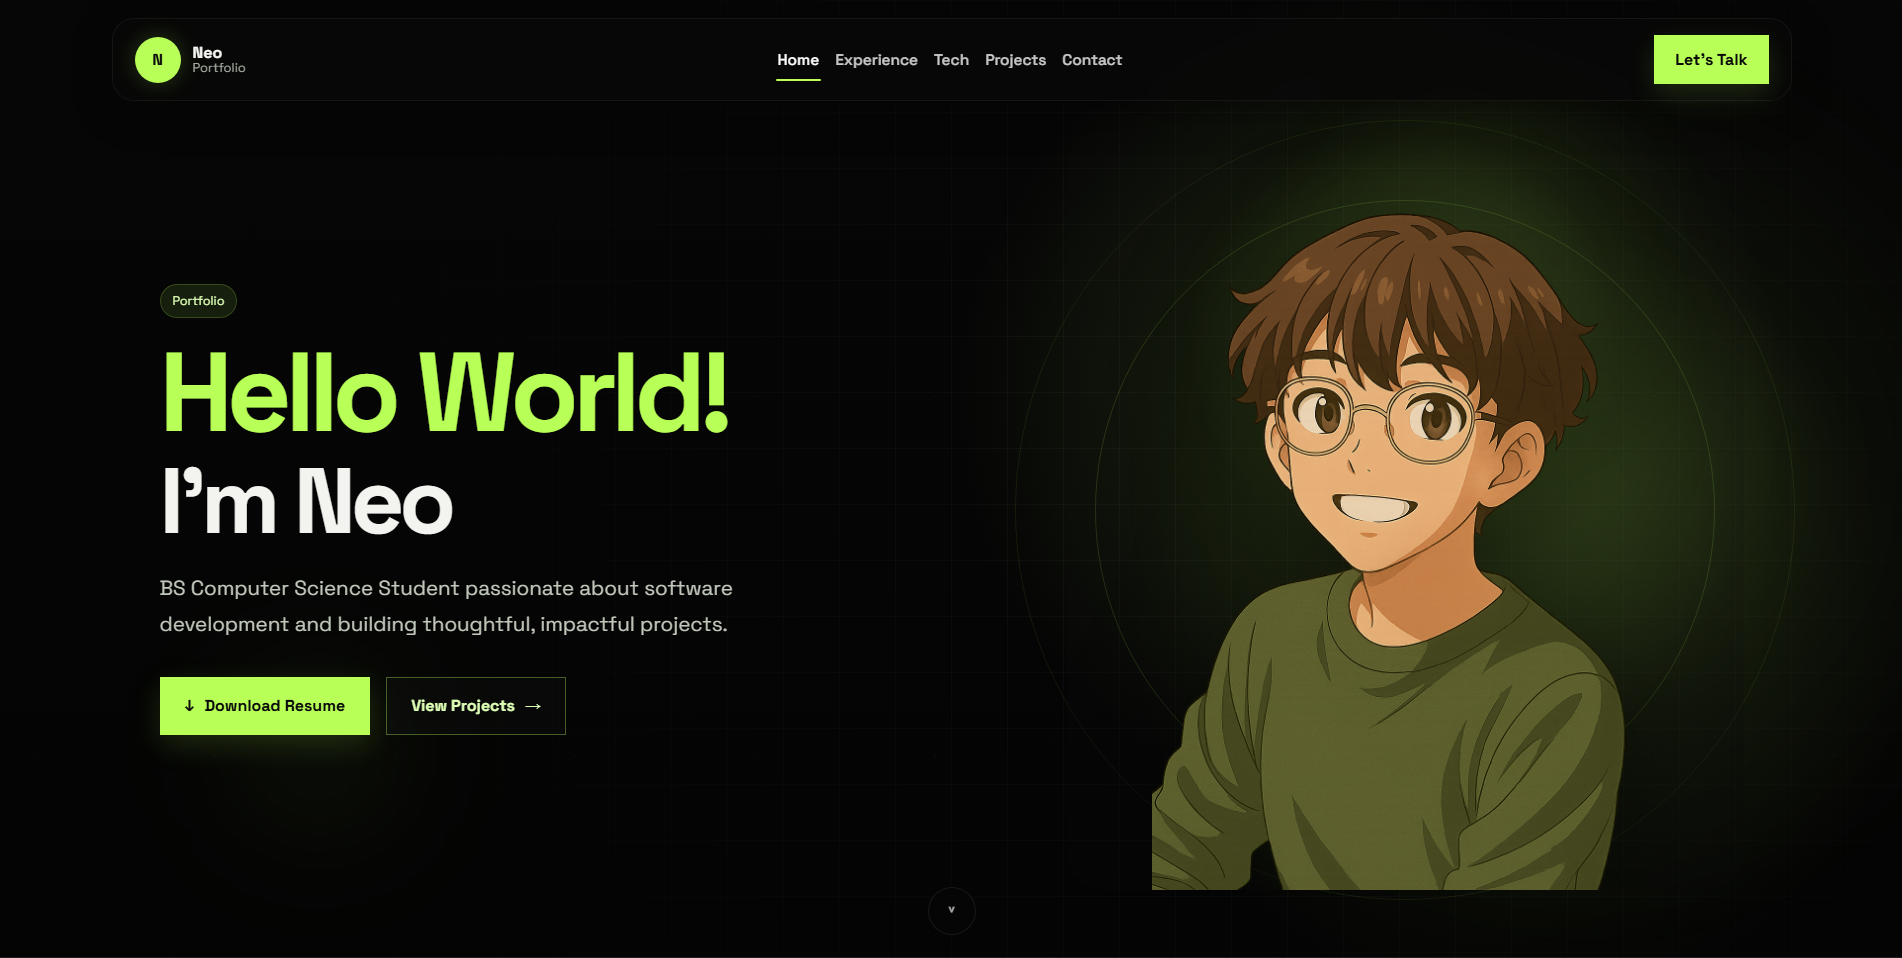
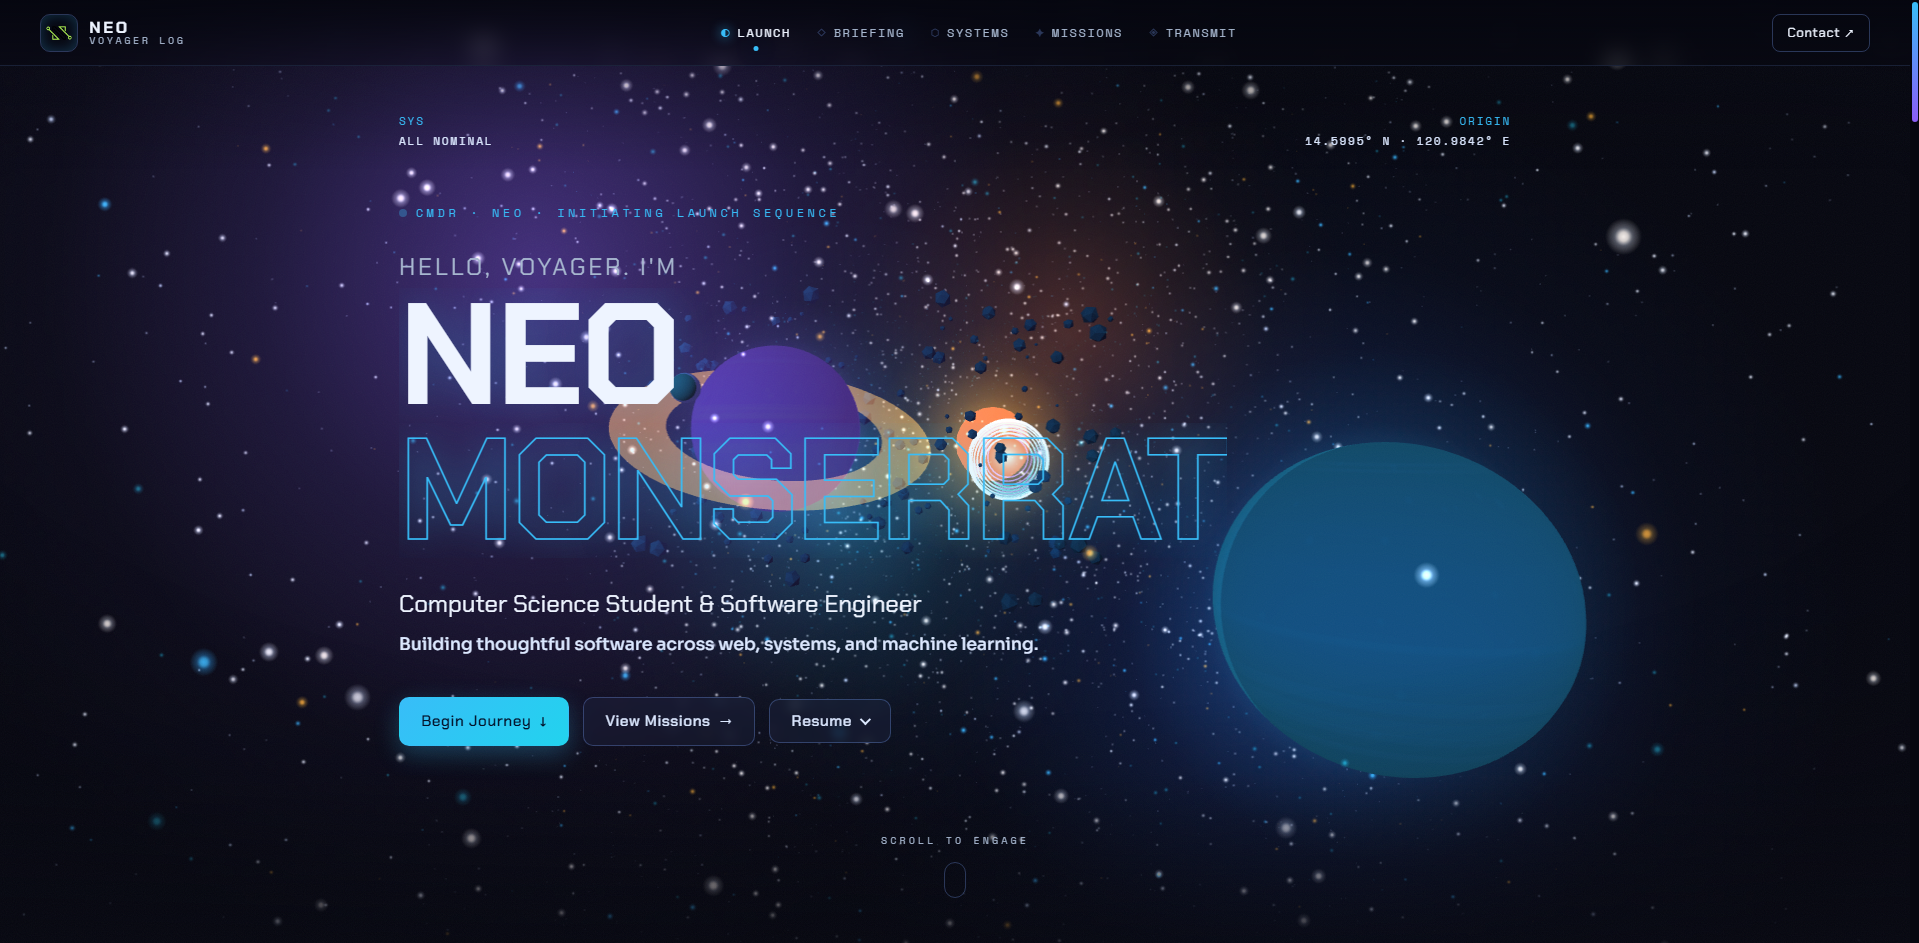
Update

diff --git a/pages/projects.html b/pages/projects.html
@@ -73,15 +73,16 @@
             <div class="project">
               <img class="project-preview" src="../assets/projects/Personal-Portfolio%20Preview.png" alt="Portfolio website preview" loading="lazy" />
               <h3>Portfolio Website</h3>
-              <p class="project-meta">React · HTML · CSS · JavaScript</p>
-              <p>Minimal portfolio website used to showcase my background, projects, and contact information.</p>
+              <p class="project-meta">React · Three.js · GSAP · Vite</p>
+              <p>A cinematic deep-space portfolio — "Voyager Log" — featuring 3D WebGL visuals and animated sequences to showcase missions, skills, and transmissions.</p>
+              <a class="project-link" href="https://neo-professional-portfolio.vercel.app/">[site]</a>
               <a class="project-link" href="https://github.com/Nmsrt/Professional-Portfolio">[link]</a>
             </div>
             <div class="project">
               <img class="project-preview" src="../assets/projects/Personal-Website%20Preview.png" alt="Personal website preview" loading="lazy" />
               <h3>Personal Website</h3>
               <p class="project-meta">HTML · CSS · JavaScript</p>
-              <p>Personal website showcasing my background, interests, projects, and contact details.</p>
+              <p>Retro-styled personal site with a vaporwave pixel aesthetic, dark/light mode, shooting stars canvas, live weather, and pages for gaming, desk setup, instruments, and travel.</p>
               <a class="project-link" href="https://github.com/Nmsrt/Personal-Website">[link]</a>
             </div>
             <div class="project">

diff --git a/index.html b/index.html
@@ -42,7 +42,7 @@
               Programming is my thing..... building small stuff for fun
               and tinkering with it until it feels just right. If you want the
               serious version of me, my professional site is
-              <a href="https://github.com/Nmsrt/Professional-Portfolio">here</a>.
+              <a href="https://neo-professional-portfolio.vercel.app/">here</a>.
             </p>
             <p>
               When I'm not writing code, you'll probably catch me doing one of
@@ -125,10 +125,11 @@
           </section>
 
           <!-- ad separator: discord -->
-          <div class="ad-sep ad-discord" aria-label="advertisement — Discord community">
+          <div class="ad-sep ad-discord" aria-label="advertisement — Ozone Discord">
             <span class="ad-sep-label">advertisement</span>
-            <span class="ad-sep-title">DISCORD</span>
-            <span class="ad-sep-tag">Join our community</span>
+            <span class="ad-sep-title">OZONE</span>
+            <span class="ad-sep-dates">● 27 Online &nbsp;·&nbsp; ● 136 Members &nbsp;·&nbsp; Est. Sep 2021</span>
+            <span class="ad-sep-tag">Join our Discord community</span>
             <a class="ad-cta" href="https://discord.gg/ex57agxdq">JOIN SERVER</a>
           </div>
 

diff --git a/css/pages.css b/css/pages.css
@@ -31,10 +31,6 @@
   color: var(--text);
 }
 
-.game-title::before {
-  content: '☾ ';
-  color: var(--accent);
-}
 
 .game-notes {
   font-size: 0.78rem;
@@ -108,10 +104,6 @@
   color: var(--text);
 }
 
-.item-title::before {
-  content: '☾ ';
-  color: var(--accent);
-}
 
 .item-tag {
   display: inline-block;

diff --git a/CLAUDE.md b/CLAUDE.md
@@ -1,0 +1,185 @@
+# Neo.Web — CLAUDE.md
+
+Personal retro/vaporwave static site. No framework, no build system, no npm.
+
+## Stack
+
+- **Vanilla HTML / CSS / JS only** — no React, no bundler, no TypeScript
+- Deployed on Neocities at `https://neodev.neocities.org`
+- Owner: Neo Monserrat — `neo.monserrat@gmail.com`
+
+## File Structure
+
+```
+Neo.Web/
+├── index.html              # Root page (home)
+├── pages/
+│   ├── projects.html
+│   ├── experience.html
+│   ├── skills.html
+│   ├── contact.html
+│   ├── gaming.html
+│   ├── desksetup.html
+│   ├── instruments.html
+│   └── travel.html
+├── css/
+│   ├── base.css            # Variables, fonts, resets, dark mode
+│   ├── layout.css          # .wrap, .columns, .main-col, .side-col, header, footer
+│   ├── components.css      # Sidebar widgets, project cards, ads, etc.
+│   ├── responsive.css      # Mobile breakpoints
+│   └── pages.css           # Styles for the 4 new content pages
+├── js/
+│   ├── theme.js            # Must be first script — reads/writes data-theme attr
+│   ├── rain.js             # Canvas shooting stars / rain effect
+│   ├── counter.js          # Visitor counter
+│   ├── menu.js             # Settings bar checkboxes (dark mode, rain toggle)
+│   ├── weather.js          # Live Manila weather widget
+│   ├── avatar.js           # Avatar hover effect (index only)
+│   ├── gaming.js           # Renders GAMING_GENRES + GAMING_IGNS
+│   ├── desksetup.js        # Renders DESK_ITEMS grouped by tag
+│   ├── instruments.js      # Renders instrumentsData grouped by tag
+│   └── travel.js           # Renders travelData grouped by region
+├── data/
+│   ├── gaming-data.js      # window globals: GAMING_GENRES, GAMING_IGNS
+│   ├── desksetup-data.js   # window global: DESK_ITEMS
+│   ├── instruments-data.js # window global: instrumentsData
+│   └── travel-data.js      # window global: travelData (IIFE)
+├── assets/
+│   ├── flags/              # Local flag PNGs for travel page
+│   ├── projects/           # Project preview images
+│   ├── button.svg          # 88×31 site button
+│   └── favicon.svg
+└── fonts/
+    ├── Pixel_NES.woff
+    └── pixelfonts/         # NEC_APC3 pixel fonts
+```
+
+## Layout Pattern
+
+Every page uses the same two-column grid:
+
+```
+.wrap (max-width: 980px)
+  header.banner          — glitch h1 "NEO"
+  div.columns
+    main.main-col        — flex: 1, page content
+    aside.side-col       — 190px fixed, sidebar widgets
+  footer
+div.settings-bar         — fixed at bottom, dark mode + rain toggles
+```
+
+Sidebar widget order (every page):
+1. `.nav-box` — site nav
+2. `.online-box` — status dot
+3. `.weather-box` — Manila weather
+4. `.counter-box` — visitor counter
+5. `.mybutton-box` — 88×31 embed code
+6. `.construction-box` — WIP bar + last updated date
+7. `.badge-box` — "best viewed at 1024x768"
+
+## Theming
+
+- **Light mode** (default): parchment/aged map — `--accent: #9e1b32` (crimson)
+- **Dark mode**: deep space starfield + aurora — `--accent: #7df9ff` (cyan)
+- Toggle via `data-theme="dark"` on `<html>` — set by `js/theme.js` before paint
+- Dark mode overrides use `[data-theme="dark"]` selectors in `base.css`
+
+Key CSS variables (light):
+```
+--bg: #f5f0e8
+--bg-panel: #efe9dc
+--bg-panel-alt: #e8e0cf
+--text: #0d0d0d
+--accent: #9e1b32
+--border: #d9d1bf
+```
+
+## Fonts
+
+- **Body + headings**: `NEC_APC3` (pixel font, `font-smooth: never`)
+- **Site title glitch**: `Orbitron` (Google Fonts, loaded per-page)
+- `image-rendering: pixelated` on body
+
+## Script Load Order (critical)
+
+In every page `<head>`:
+```html
+<script src="../js/theme.js"></script>  <!-- MUST be first -->
+```
+
+At bottom of `<body>` — data files before their render script:
+```html
+<script src="../data/[page]-data.js"></script>
+<script src="../js/[page].js"></script>
+<script src="../js/rain.js"></script>
+<script src="../js/counter.js"></script>
+<script src="../js/menu.js"></script>
+<script src="../js/weather.js"></script>
+```
+
+## Nav Links
+
+Pages inside `/pages/` link to each other relatively:
+```html
+<a href="../index.html">Home</a>
+<a href="projects.html">Projects</a>
+...
+<a href="gaming.html">Gaming</a>
+<a href="desksetup.html">Desk Setup</a>
+<a href="instruments.html">Instruments</a>
+<a href="travel.html">Travel</a>
+<a href="https://github.com/Nmsrt">GitHub</a>
+```
+
+`index.html` (root) uses `pages/` prefix: `<a href="pages/gaming.html">Gaming</a>`
+
+## Data Globals
+
+All data files use `window.*` globals (no modules):
+
+| File | Global | Shape |
+|---|---|---|
+| `gaming-data.js` | `GAMING_GENRES`, `GAMING_IGNS` | Array of genre objects with `games[]`; array of IGN objects |
+| `desksetup-data.js` | `window.DESK_ITEMS` | Array — each item has `id/tag/title/meta/image/specs` |
+| `instruments-data.js` | `window.instrumentsData` | Array — each has `tag/title/image/specs/detailSpecs/description` |
+| `travel-data.js` | `window.travelData` | IIFE — each dest has `id/name/region/year/flag/images[]` |
+
+Travel images are Cloudinary CDN. Flag images are local at `assets/flags/` (e.g. `japan.png`, `france.png`). Travel render script builds path as `"../assets/flags/" + dest.flag`.
+
+## JS Pattern
+
+All render scripts are IIFEs — no ES modules:
+```js
+(function () {
+  var root = document.getElementById("some-root");
+  var data = window.someGlobal || [];
+  if (!root || !data.length) return;
+  // build DOM with document.createElement
+})();
+```
+
+## Page Template (new pages)
+
+Copy the full sidebar from any existing page in `/pages/`. Unique parts per page:
+
+| Page | `<title>` | `section-title` | Root element | Data file | Render script |
+|---|---|---|---|---|---|
+| gaming.html | Gaming — NEO.DEV | ▲ Gaming | `#genres-root` + `#igns-body` | gaming-data.js | gaming.js |
+| desksetup.html | Desk Setup — NEO.DEV | ▲ Desk Setup | `#desk-root` | desksetup-data.js | desksetup.js |
+| instruments.html | Instruments — NEO.DEV | ▲ Instruments | `#instruments-root` | instruments-data.js | instruments.js |
+| travel.html | Travel — NEO.DEV | ▲ Travel | `#travel-root` | travel-data.js | travel.js |
+
+gaming.html structure: `<section id="igns">` (IGN table) above `<section id="gaming">` (genre/game list).
+
+## Related Projects
+
+- `C:\Users\neomo\Codes\Personal-Website` — glassmorphism dark SPA, different stack (vanilla JS + partial injection via `data-include`). Accent: `#ff8a5b` coral / `#7c5cff` purple. Do NOT confuse with Neo.Web.
+- `C:\Users\neomo\Codes\Professional-Portfolio` — React + Three.js + GSAP + Vite, deployed at `https://neo-professional-portfolio.vercel.app/`. Cinematic "Voyager Log" theme.
+
+## Key Conventions
+
+- No comments unless the WHY is non-obvious
+- No abstractions beyond what the task requires
+- When updating nav on any page, update ALL pages (index + all 8 in /pages/)
+- `last updated:` date in `.construction-box` — keep current when making changes
+- `index.html` construction box still says `2026-06-13` — update when touching that file
